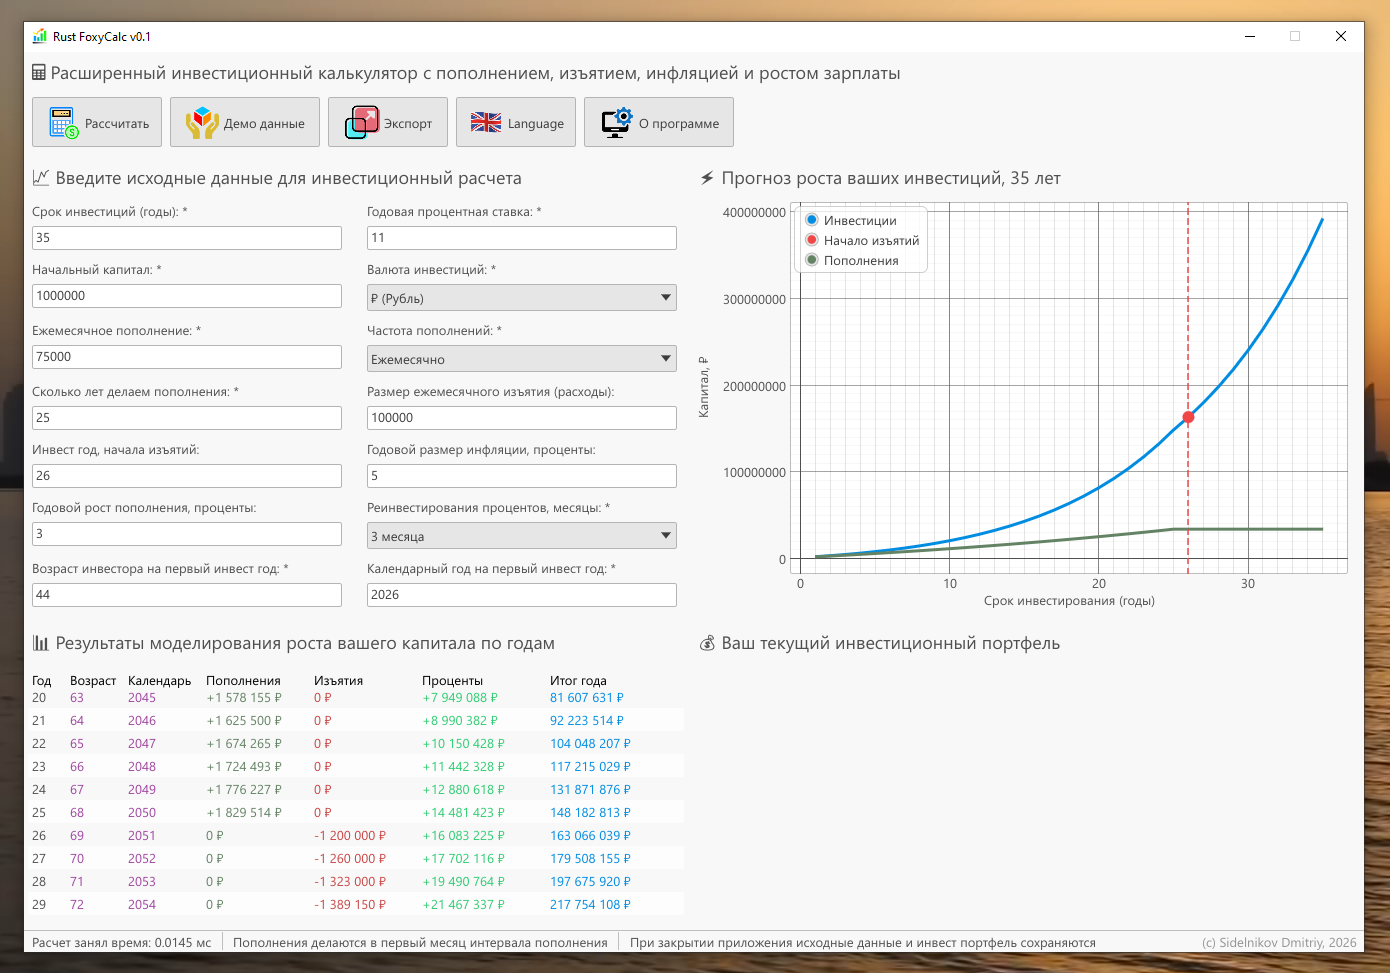
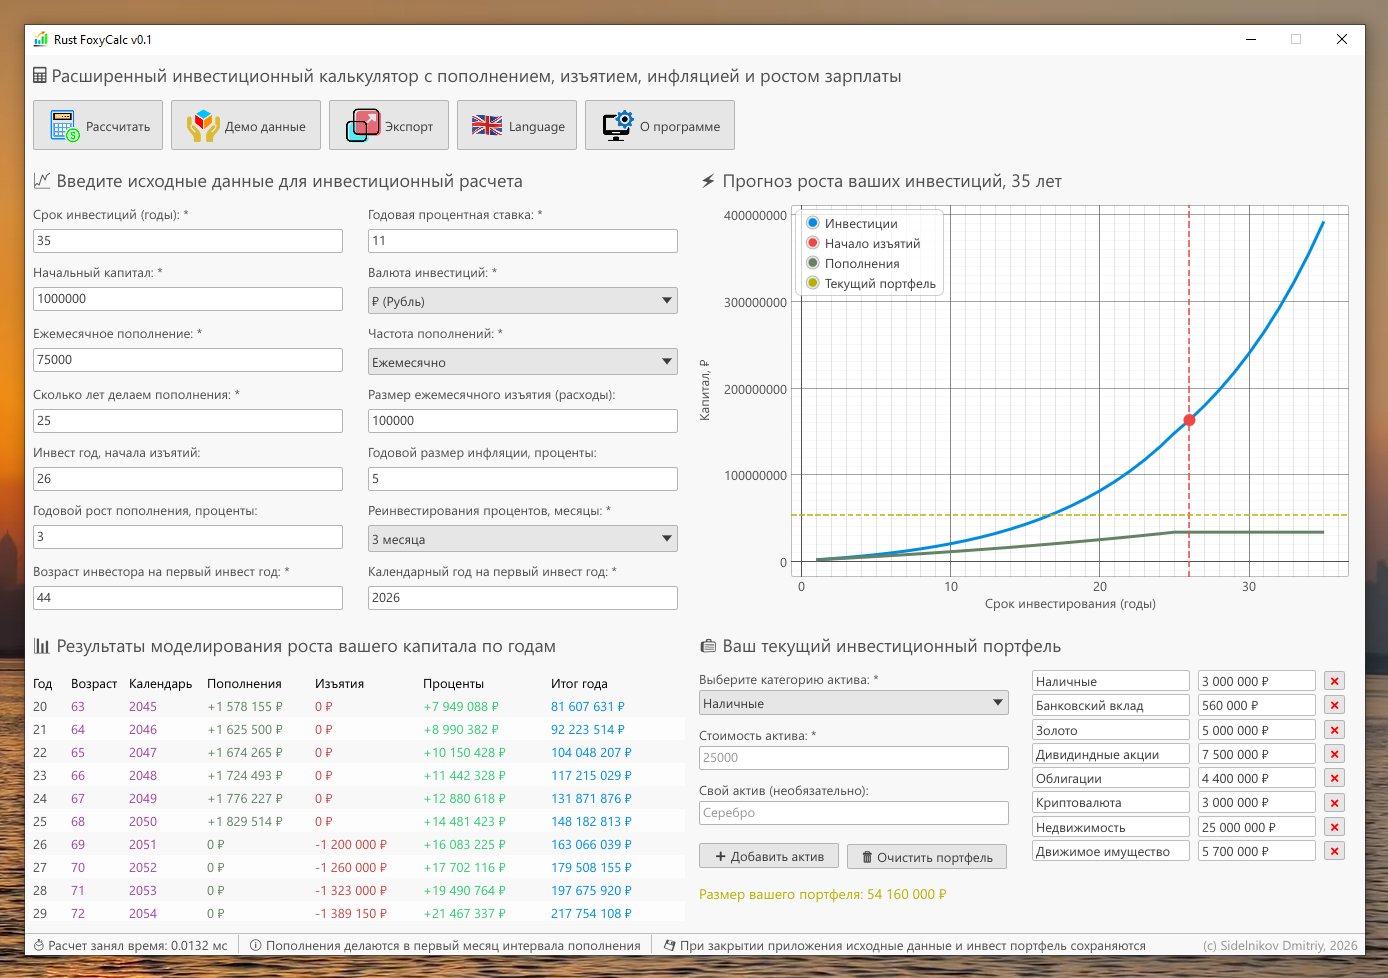
Big feature delivered: current investmant portfolio modeling, readme.md updated too

diff --git a/src/main.rs b/src/main.rs
@@ -220,6 +220,61 @@ fn get_russian_years_suffix(years: usize) -> &'static str {
 }
 
 //=======================================================================================
+// Моделирование текущего инвестиционного портфеля
+//=======================================================================================
+
+// Классические типы активов для комбобокса
+#[derive(Debug, Clone, Copy, PartialEq, Eq)]
+pub enum AssetClass {
+    Cash,
+    BankDeposit,
+    Gold,
+    PreciousMetals,
+    Stocks,
+    DividendStocks,
+    Bonds,
+    Funds,
+    Crypto,
+    RealEstate,
+    CommercialRealEstate,
+    MovableProperty,
+}
+
+impl AssetClass {
+    fn to_string(&self) -> &'static str {
+        match self {
+            Self::Cash => "Наличные",
+            Self::BankDeposit => "Банковский вклад",
+            Self::Gold => "Золото",
+            Self::PreciousMetals => "Драгоценные металлы",
+            Self::Stocks => "Акции",
+            Self::DividendStocks => "Дивидендные акции",
+            Self::Bonds => "Облигации",
+            Self::Funds => "Фонды",
+            Self::Crypto => "Криптовалюта",
+            Self::RealEstate => "Недвижимость",
+            Self::CommercialRealEstate => "Коммерческая недвижимость",
+            Self::MovableProperty => "Движимое имущество",
+        }
+    }
+    
+    fn all() -> &'static [Self] {
+        &[
+            Self::Cash, Self::BankDeposit, Self::Gold, Self::PreciousMetals,
+            Self::Stocks, Self::DividendStocks, Self::Bonds, Self::Funds,
+            Self::Crypto, Self::RealEstate, Self::CommercialRealEstate, Self::MovableProperty
+        ]
+    }
+}
+
+// Структура одного добавленного актива
+#[derive(Clone)]
+pub struct PortfolioAsset {
+    pub name: String,
+    pub value: f64,
+}
+
+//=======================================================================================
 // MyApp
 //=======================================================================================
 struct MyApp {
@@ -262,6 +317,12 @@ struct MyApp {
     error_message: Option<String>, // Поле для предупреждений об ошибках парсинга
 
     calc_time_duration: f64, // Время расчета таблицы
+
+    // Поля для моделирования инвест портфеля
+    portfolio_assets: Vec<PortfolioAsset>, // Массив добавленных активов
+    selected_asset_class: AssetClass,      // Выбранный элемент в комбобоксе классических активов
+    asset_amount_text: String,             // Текст стоимости из эдита
+    custom_asset_name: String,             // Текст имени кастомного актива из эдита
 }
 
 impl MyApp {
@@ -315,6 +376,12 @@ impl MyApp {
             error_message: None, // Сообщение об ошибке парсинга
 
             calc_time_duration: 0.0, // Время расчета таблицы
+        
+            // Поля для моделирования инвест портфеля
+            portfolio_assets: Vec::new(),
+            selected_asset_class: AssetClass::Cash,
+            asset_amount_text: String::new(),
+            custom_asset_name: String::new(),
         }
     }
 
@@ -541,6 +608,20 @@ impl MyApp {
         }
     }
 
+    // Запуск инвест рассчета - выносим всю цепочку действий в отдельную функцию для вызова из 2х разных мест
+    fn run_invest_calculation(&mut self) {
+        if self.text_edits_parsing() {
+            // НАЧАЛО ЗАМЕРА
+            let start_time = std::time::Instant::now();
+            
+            self.invest_calc();
+
+            // КОНЕЦ ЗАМЕРА
+            let duration = start_time.elapsed();
+            self.calc_time_duration = duration.as_secs_f64() * 1000.0;
+        }
+    }
+
     // Добавляем в UI главные кнопки с иконками (toolbar)
     fn draw_icon_buttons(&mut self, ui: &mut egui::Ui) {
         let button_icon_size: f32 = 35.0;
@@ -576,16 +657,7 @@ impl MyApp {
         ui.horizontal(|ui| {
             // Инвест рассчет
             if ui.add_sized(egui::vec2(130.0, 50.0), image_btn_calc).clicked() {
-                if self.text_edits_parsing() {
-                    // НАЧАЛО ЗАМЕРА: Фиксируем текущую точку времени
-                    let start_time = std::time::Instant::now();
-                    
-                    self.invest_calc();
-
-                    // КОНЕЦ ЗАМЕРА: Считаем прошедшее время и переводим в миллисекунды (f64)
-                    let duration = start_time.elapsed();
-                    self.calc_time_duration = duration.as_secs_f64() * 1000.0;
-                }
+                self.run_invest_calculation();
             }
             // Загрузить демо данные
             if ui.add_sized(egui::vec2(150.0, 50.0), image_btn_demo).clicked() {
@@ -608,6 +680,21 @@ impl MyApp {
                 self.reinvest_period = ReinvestPeriod::Months3;
                 self.currency = Currency::Rub;
                 self.deposit_frequency = DepositFrequency::Monthly;
+
+                // Заполняем текущий инвест портфель - активы
+                self.portfolio_assets = vec![
+                    PortfolioAsset { name: "Наличные".to_string(), value: 3000000.0 },
+                    PortfolioAsset { name: "Банковский вклад".to_string(), value: 560000.0 },
+                    PortfolioAsset { name: "Золото".to_string(), value: 5000000.0 },
+                    PortfolioAsset { name: "Дивидиндные акции".to_string(), value: 7500000.0 },
+                    PortfolioAsset { name: "Облигации".to_string(), value: 4400000.0 },
+                    PortfolioAsset { name: "Криптовалюта".to_string(), value: 3000000.0 },
+                    PortfolioAsset { name: "Недвижимость".to_string(), value: 25000000.0 },
+                    PortfolioAsset { name: "Движимое имущество".to_string(), value: 5700000.0 },
+                ];
+
+                // Делаем инвест рассчет, заполнится таблица и нарисуется график
+                self.run_invest_calculation();
             }
             if ui.add_sized(egui::vec2(120.0, 50.0), image_btn_export).clicked() {
                 // Клик по иконке
@@ -981,6 +1068,31 @@ impl MyApp {
                                 plot_ui.points(marker_point);
                             }
                         }
+
+                        // 4. Фича: оранжевая линия текущего портфеля
+                        let total_portfolio_value: f64 = self.portfolio_assets.iter().map(|a| a.value).sum();
+
+                        // Проверяем условия отображения: портфель не пуст, и его стоимость лежит между 
+                        // первым балансом (стартовым капиталом) и финальным результатом
+                        if total_portfolio_value > 0.0 && !self.calc_result_rows.is_empty() {
+                            let first_year_balance = self.calc_result_rows.first().unwrap().end_balance;
+                            let last_year_balance = self.calc_result_rows.last().unwrap().end_balance;
+
+                            // Нам нужно определить, попадает ли портфель в диапазон прогноза
+                            // Берем минимальное и максимальное значение из двух крайних точек (на случай падения графика)
+                            let min_bound = first_year_balance.min(last_year_balance);
+                            let max_bound = first_year_balance.max(last_year_balance);
+
+                            if total_portfolio_value >= min_bound && total_portfolio_value <= max_bound {
+                                // Горизонтальная линия через весь график на уровне Y = общая стоимость
+                                let orange_line = egui_plot::HLine::new("Текущий портфель", total_portfolio_value)
+                                    .color(egui::Color32::from_rgb(180, 180, 0)) // Темно желтый
+                                    .width(1.5_f32)
+                                    .style(egui_plot::LineStyle::Dashed { length: 5.0 }); // Пунктир
+
+                                plot_ui.hline(orange_line);
+                            }
+                        }
                     });
             });
         } else {
@@ -988,10 +1100,136 @@ impl MyApp {
         }
     }
 
-    // Рисуем UI для вашего текущего инвест портфеля
-    fn draw_current_portfolio(&mut self, ui: &mut egui::Ui) {
-        ui.heading("💰 Ваш текущий инвестиционный портфель");
+    // Моделирование текущего инвестиционного портфеля
+    fn draw_portfolio_manager(&mut self, ui: &mut egui::Ui) {
+        ui.heading("💼 Ваш текущий инвестиционный портфель");
         ui.add_space(10.0);
+
+        // Считаем общую стоимость портфеля
+        let total_portfolio_value: f64 = self.portfolio_assets.iter().map(|a| a.value).sum();
+
+        // Делим пространство под графиком (650px) на две половины
+        ui.columns(2, |columns| {
+            let [left_col, right_col] = columns else { panic!("In the draw_portfolio_manager function, 2 columns are expected in the UI") };
+
+            // ================= ЛЕВАЯ ПОЛОВИНА: Форма добавления =================
+            left_col.vertical(|ui| {
+                let edit_width = egui::vec2(310.0, 24.0);
+                let combo_box_width: f32 = 310.0;
+
+                // 1. Комбобокс классов активов
+                ui.label(egui::RichText::new("Выберите категорию актива: *"));
+                ui.spacing_mut().button_padding.y = 4.0;
+                egui::ComboBox::from_id_salt("portfolio_asset_class_combo")
+                    .selected_text(self.selected_asset_class.to_string())
+                    .width(combo_box_width)
+                    .show_ui(ui, |ui| {
+                        for class in AssetClass::all() {
+                            ui.selectable_value(&mut self.selected_asset_class, *class, class.to_string());
+                        }
+                    });
+                ui.add_space(8.0);
+
+                // 2. Эдит для стоимости
+                ui.label(egui::RichText::new("Стоимость актива: *"));
+                //ui.add(egui::TextEdit::singleline(&mut self.asset_amount_text).desired_width(edit_width));
+                ui.add_sized(edit_width, egui::TextEdit::singleline(&mut self.asset_amount_text).hint_text("25000"));
+                ui.add_space(8.0);
+
+                // 3. Эдит для специфического имени
+                ui.label(egui::RichText::new("Свой актив (необязательно):"));
+                //ui.add(egui::TextEdit::singleline(&mut self.custom_asset_name).desired_width(edit_width));
+                ui.add_sized(edit_width, egui::TextEdit::singleline(&mut self.custom_asset_name).hint_text("Серебро"));
+                ui.add_space(15.0);
+
+                // Кнопки управления и лейбл суммы
+                ui.horizontal(|ui| {
+                    // Кнопка Добавить актив
+                    if ui.add_sized(egui::vec2(140.0, 24.0), egui::Button::new("➕ Добавить актив")).clicked() {
+                        // Валидация стоимости
+                        let parsed_amount = self.asset_amount_text.trim().replace(',', ".");
+                        match parsed_amount.parse::<f64>() {
+                            Ok(amount) if amount >= 0.0 => {
+                                let max_portfolio_assets: usize = 10;
+                                if self.portfolio_assets.len() >= max_portfolio_assets {
+                                    self.error_message = Some(format!("Максимальное количество активов ограничено {} строками!", max_portfolio_assets));
+                                } else {
+                                    // Определяем имя: если специфическое пустое, берем из комбобокса
+                                    let asset_name = if self.custom_asset_name.trim().is_empty() {
+                                        self.selected_asset_class.to_string().to_string()
+                                    } else {
+                                        self.custom_asset_name.trim().to_string()
+                                    };
+
+                                    self.portfolio_assets.push(PortfolioAsset {
+                                        name: asset_name,
+                                        value: amount,
+                                    });
+
+                                    // Очищаем поля ввода
+                                    self.asset_amount_text.clear();
+                                    self.custom_asset_name.clear();
+                                }
+                            }
+                            _ => {
+                                self.error_message = Some("Укажите корректную стоимость актива (положительное число)!".to_string());
+                            }
+                        }
+                    }
+
+                    // Кнопка Очистить
+                    if ui.add_sized(egui::vec2(160.0, 24.0), egui::Button::new("🗑 Очистить портфель")).clicked() {
+                        self.portfolio_assets.clear();
+                    }
+                });
+
+                ui.add_space(12.0);
+                // Оранжевый лейбл с общей суммой портфеля
+                let yellow_color = egui::Color32::from_rgb(180, 180, 0);
+                ui.label(
+                    egui::RichText::new(format!(
+                        "Размер вашего портфеля: {} {}", 
+                        format_thousands(total_portfolio_value as i64), 
+                        self.currency_sign
+                    ))
+                    .strong()
+                    .size(14.0)
+                    .color(yellow_color)
+                );
+            });
+
+            // ================= ПРАВАЯ ПОЛОВИНА: Список добавленных активов =================
+            right_col.vertical(|ui| {
+                if self.portfolio_assets.is_empty() {
+                    ui.weak("Портфель пуст. Добавьте активы слева.");
+                } else {
+                    let mut asset_to_remove = None;
+
+                    // Циклом выводим строки элементов (максимум 7)
+                    for (idx, asset) in self.portfolio_assets.iter().enumerate() {
+                        ui.horizontal(|ui| {
+                            // 1. Имя актива (Readonly)
+                            let mut name_tmp = asset.name.clone();
+                            ui.add(egui::TextEdit::singleline(&mut name_tmp).interactive(false).desired_width(150.0));
+
+                            // 2. Стоимость актива (Readonly с округлением)
+                            let mut val_str = format!("{} {}", format_thousands(asset.value as i64), self.currency_sign);
+                            ui.add(egui::TextEdit::singleline(&mut val_str).interactive(false).desired_width(110.0));
+
+                            // 3. Кнопка-крестик для удаления
+                            if ui.button(egui::RichText::new("❌").color(egui::Color32::RED)).clicked() {
+                                asset_to_remove = Some(idx);
+                            }
+                        });
+                    }
+
+                    // Если была нажата кнопка удаления — вырезаем из вектора
+                    if let Some(idx) = asset_to_remove {
+                        self.portfolio_assets.remove(idx);
+                    }
+                }
+            });
+        });
     }
 
 } // impl MyApp
@@ -1007,11 +1245,11 @@ impl eframe::App for MyApp {
         .show(ctx, |ui| {
             ui.horizontal(|ui| {
                 // Выводим текст с форматированием до 4 знаков после запятой
-                ui.label(format!("Расчет занял время: {:.4} мс", self.calc_time_duration));
+                ui.label(format!("⏱ Расчет занял время: {:.4} мс", self.calc_time_duration));
                 ui.separator();
-                ui.label("Пополнения делаются в первый месяц интервала пополнения");
+                ui.label("ℹ Пополнения делаются в первый месяц интервала пополнения");
                 ui.separator();
-                ui.label("При закрытии приложения исходные данные и инвест портфель сохраняются");
+                ui.label("💾 При закрытии приложения исходные данные и инвест портфель сохраняются");
 
                 // Добавим разделитель и выведем дополнительную информацию
                 ui.with_layout(egui::Layout::right_to_left(egui::Align::Center), |ui| {
@@ -1060,7 +1298,7 @@ impl eframe::App for MyApp {
                     ui.add_space(15.0);
                     
                     // Рисуем UI для вашего текущего инвест портфеля
-                    self.draw_current_portfolio(ui);
+                    self.draw_portfolio_manager(ui);
                 });
             });
 

diff --git a/README.md b/README.md
@@ -3,7 +3,16 @@
 
 ## General info
 
-An advanced investment calculator (compound interest) created to demonstrate how to work with GUI (eframe/egui) on Rust. The calculations accept up to 14 input parameters. The result of the investment will be visualized on the colored graph. You will clearly see the effect of compound interest and your deposits. It supports English and Russion languages of application UI.
+An advanced investment calculator (for a compound interest) created to demonstrate how to work with GUI (eframe/egui) on Rust.
+
+## Main features
+
++ The calculations accept up to 14 input parameters.
++ Calculated investment forcast data will be stored in a colorfull table.
++ Result of the investment will be visualized on the colored graph. You will clearly see the effect of compound interest, your deposits and withdraws.
++ You can model your current investment portfolio from different assets, displaying its total amount on the investment chart.
++ The application support exporting of all data to HTML format page.
++ English and Russion languages are supported of the application UI.
 
 ## Author and contacts
 
@@ -14,4 +23,4 @@ Sidelnikov Dmitriy, Email: <nirvikalpa@yandex.ru>, Telegram: @SpringDayInTheFore
 1. Download and install Rust language support: <https://rust-lang.org>
 2. Download and install git: <https://git-scm.com>
 3. Make git clone for this repository (git clone <https://github.com/nirvikalpa7/FoxyCalcRust.git>).
-4. Run a build command in a folder of the project: $ cargo run
+4. Run a build command in a folder of the project: "$ cargo build" and next "$ cargo run"
